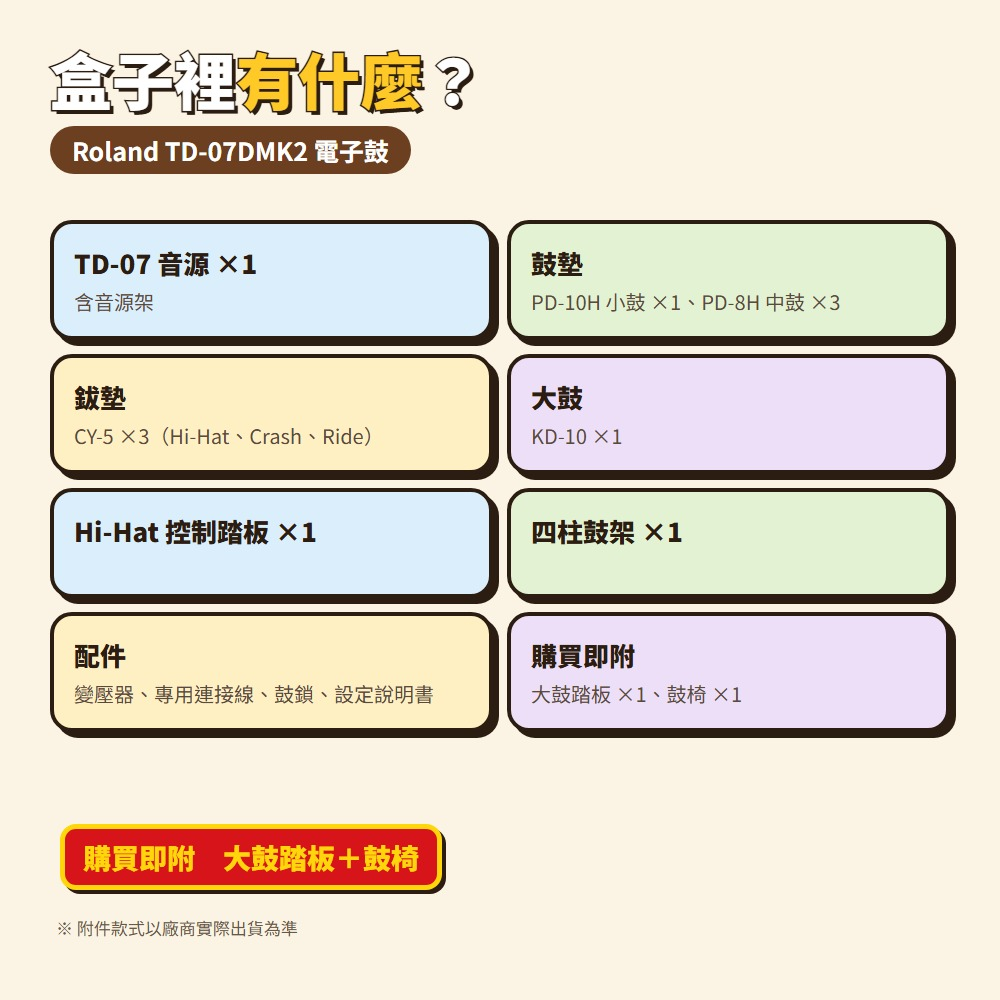
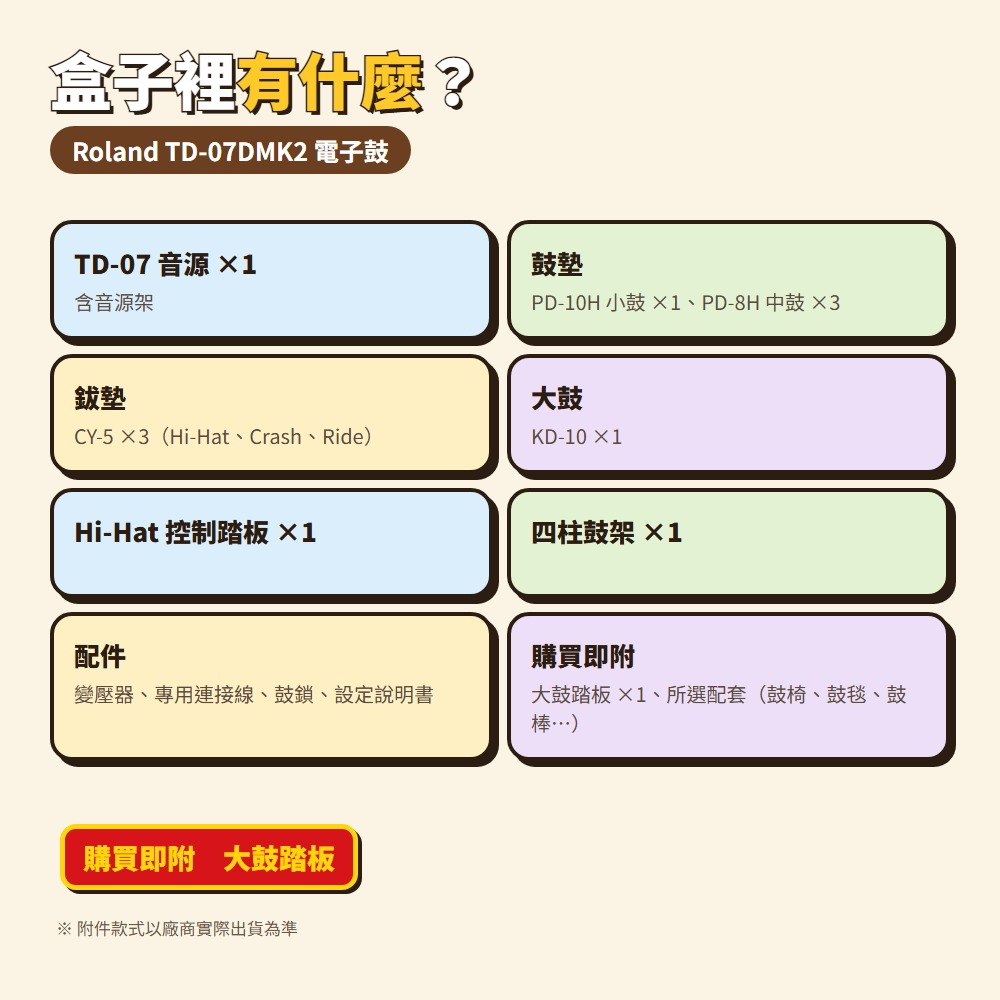
07DMK2：加配套組合頁（入門／進階三選一／豪華六件），購買即附大鼓踏板

Changed region(s): [[0.031, 0.682, 0.961, 0.775], [0.341, 0.806, 0.465, 0.899]]

diff --git a/styles/index.html b/styles/index.html
@@ -4,4 +4,4 @@
 nav a{display:inline-block;margin:3px 6px 3px 0;padding:4px 10px;background:#fff;border-radius:14px;text-decoration:none;color:#0071e3;font-size:14px}
 details{background:#fff;border-radius:10px;margin:8px 0;padding:8px 12px}summary{cursor:pointer;font-weight:600}
 .g{display:grid;grid-template-columns:repeat(auto-fill,minmax(150px,1fr));gap:8px;margin-top:10px}.g img{width:100%;display:block;border-radius:6px}</style></head>
-<body><div class="w"><h1>主推型號 全風格上架圖</h1><p>蘋果風、科技風（已有的沿用）＋店貓風、枯木風（官網日系）、枯木＋店貓。點分類展開，點圖看原尺寸。</p><nav><a href="#07DMK2">07DMK2</a> <a href="#07DMK">07DMK</a> <a href="#07KV2">07KV2</a> <a href="#DTX6K5-M">DTX6K5-M</a> <a href="#DM-8">DM-8</a> <a href="#DM-310H">DM-310H</a> <a href="#DM-210">DM-210</a> <a href="#DM-110">DM-110</a> <a href="#P-525">P-525</a> <a href="#FP-40">FP-40</a> <a href="#P-225">P-225</a> <a href="#YDP-105R">YDP-105R</a></nav><h2 id="07DMK2">Roland TD-07DMK2</h2><details><summary>蘋果風（6 張）</summary><div class="g"><a href="../drums/07DMK2/apple/01_封面.jpg" target="_blank"><img loading="lazy" src="../drums/07DMK2/apple/01_封面.jpg"></a><a href="../drums/07DMK2/apple/02_主圖.jpg" target="_blank"><img loading="lazy" src="../drums/07DMK2/apple/02_主圖.jpg"></a><a href="../drums/07DMK2/apple/03_角度1.jpg" target="_blank"><img loading="lazy" src="../drums/07DMK2/apple/03_角度1.jpg"></a><a href="../drums/07DMK2/apple/04_角度2.jpg" target="_blank"><img loading="lazy" src="../drums/07DMK2/apple/04_角度2.jpg"></a><a href="../drums/07DMK2/apple/05_角度3.jpg" target="_blank"><img loading="lazy" src="../drums/07DMK2/apple/05_角度3.jpg"></a><a href="../drums/07DMK2/apple/06_角度4.jpg" target="_blank"><img loading="lazy" src="../drums/07DMK2/apple/06_角度4.jpg"></a></div></details><details><summary>科技風（3 張）</summary><div class="g"><a href="../drums/07DMK2/tech/01_封面.jpg" target="_blank"><img loading="lazy" src="../drums/07DMK2/tech/01_封面.jpg"></a><a href="../drums/07DMK2/tech/02_規格.jpg" target="_blank"><img loading="lazy" src="../drums/07DMK2/tech/02_規格.jpg"></a><a href="../drums/07DMK2/tech/03_音源機.jpg" target="_blank"><img loading="lazy" src="../drums/07DMK2/tech/03_音源機.jpg"></a></div></details><details><summary>店貓風（13 張）</summary><div class="g"><a href="../drums/07DMK2/shopcat/TD07DMK2_cat_01_main.jpg" target="_blank"><img loading="lazy" src="../drums/07DMK2/shopcat/TD07DMK2_cat_01_main.jpg"></a><a href="../drums/07DMK2/shopcat/TD07DMK2_cat_02_feature1.jpg" target="_blank"><img loading="lazy" src="../drums/07DMK2/shopcat/TD07DMK2_cat_02_feature1.jpg"></a><a href="../drums/07DMK2/shopcat/TD07DMK2_cat_03_feature2.jpg" target="_blank"><img loading="lazy" src="../drums/07DMK2/shopcat/TD07DMK2_cat_03_feature2.jpg"></a><a href="../drums/07DMK2/shopcat/TD07DMK2_cat_04_feature3.jpg" target="_blank"><img loading="lazy" src="../drums/07DMK2/shopcat/TD07DMK2_cat_04_feature3.jpg"></a><a href="../drums/07DMK2/shopcat/TD07DMK2_cat_05_feature4.jpg" target="_blank"><img loading="lazy" src="../drums/07DMK2/shopcat/TD07DMK2_cat_05_feature4.jpg"></a><a href="../drums/07DMK2/shopcat/TD07DMK2_cat_06_config.jpg" target="_blank"><img loading="lazy" src="../drums/07DMK2/shopcat/TD07DMK2_cat_06_config.jpg"></a><a href="../drums/07DMK2/shopcat/TD07DMK2_cat_07_contents.jpg" target="_blank"><img loading="lazy" src="../drums/07DMK2/shopcat/TD07DMK2_cat_07_contents.jpg"></a><a href="../drums/07DMK2/shopcat/TD07DMK2_cat_08_size.jpg" target="_blank"><img loading="lazy" src="../drums/07DMK2/shopcat/TD07DMK2_cat_08_size.jpg"></a><a href="../drums/07DMK2/shopcat/TD07DMK2_cat_09_spec.jpg" target="_blank"><img loading="lazy" src="../drums/07DMK2/shopcat/TD07DMK2_cat_09_spec.jpg"></a><a href="../drums/07DMK2/shopcat/TD07DMK2_cat_10_buy.jpg" target="_blank"><img loading="lazy" src="../drums/07DMK2/shopcat/TD07DMK2_cat_10_buy.jpg"></a><a href="../drums/07DMK2/shopcat/TD07DMK2_cat_11_return.jpg" target="_blank"><img loading="lazy" src="../drums/07DMK2/shopcat/TD07DMK2_cat_11_return.jpg"></a><a href="../drums/07DMK2/shopcat/TD07DMK2_cat_12_ship.jpg" target="_blank"><img loading="lazy" src="../drums/07DMK2/shopcat/TD07DMK2_cat_12_ship.jpg"></a><a href="../drums/07DMK2/shopcat/TD07DMK2_cat_13_remote.jpg" target="_blank"><img loading="lazy" src="../drums/07DMK2/shopcat/TD07DMK2_cat_13_remote.jpg"></a></div></details><details><summary>枯木風（官網日系）（13 張）</summary><div class="g"><a href="../drums/07DMK2/wabi/TD07DMK2_web_01_main.jpg" target="_blank"><img loading="lazy" src="../drums/07DMK2/wabi/TD07DMK2_web_01_main.jpg"></a><a href="../drums/07DMK2/wabi/TD07DMK2_web_02_feature1.jpg" target="_blank"><img loading="lazy" src="../drums/07DMK2/wabi/TD07DMK2_web_02_feature1.jpg"></a><a href="../drums/07DMK2/wabi/TD07DMK2_web_03_feature2.jpg" target="_blank"><img loading="lazy" src="../drums/07DMK2/wabi/TD07DMK2_web_03_feature2.jpg"></a><a href="../drums/07DMK2/wabi/TD07DMK2_web_04_feature3.jpg" target="_blank"><img loading="lazy" src="../drums/07DMK2/wabi/TD07DMK2_web_04_feature3.jpg"></a><a href="../drums/07DMK2/wabi/TD07DMK2_web_05_feature4.jpg" target="_blank"><img loading="lazy" src="../drums/07DMK2/wabi/TD07DMK2_web_05_feature4.jpg"></a><a href="../drums/07DMK2/wabi/TD07DMK2_web_06_config.jpg" target="_blank"><img loading="lazy" src="../drums/07DMK2/wabi/TD07DMK2_web_06_config.jpg"></a><a href="../drums/07DMK2/wabi/TD07DMK2_web_07_contents.jpg" target="_blank"><img loading="lazy" src="../drums/07DMK2/wabi/TD07DMK2_web_07_contents.jpg"></a><a href="../drums/07DMK2/wabi/TD07DMK2_web_08_size.jpg" target="_blank"><img loading="lazy" src="../drums/07DMK2/wabi/TD07DMK2_web_08_size.jpg"></a><a href="../drums/07DMK2/wabi/TD07DMK2_web_09_spec.jpg" target="_blank"><img loading="lazy" src="../drums/07DMK2/wabi/TD07DMK2_web_09_spec.jpg"></a><a href="../drums/07DMK2/wabi/TD07DMK2_web_10_buy.jpg" target="_blank"><img loading="lazy" src="../drums/07DMK2/wabi/TD07DMK2_web_10_buy.jpg"></a><a href="../drums/07DMK2/wabi/TD07DMK2_web_11_return.jpg" target="_blank"><img loading="lazy" src="../drums/07DMK2/wabi/TD07DMK2_web_11_return.jpg"></a><a href="../drums/07DMK2/wabi/TD07DMK2_web_12_ship.jpg" target="_blank"><img loading="lazy" src="../drums/07DMK2/wabi/TD07DMK2_web_12_ship.jpg"></a><a href="../drums/07DMK2/wabi/TD07DMK2_web_13_remote.jpg" target="_blank"><img loading="lazy" src="../drums/07DMK2/wabi/TD07DMK2_web_13_remote.jpg"></a></div></details><details><summary>枯木＋店貓（13 張）</summary><div class="g"><a href="../drums/07DMK2/wabicat/TD07DMK2_wcat_01_main.jpg" target="_blank"><img loading="lazy" src="../drums/07DMK2/wabicat/TD07DMK2_wcat_01_main.jpg"></a><a href="../drums/07DMK2/wabicat/TD07DMK2_wcat_02_feature1.jpg" target="_blank"><img loading="lazy" src="../drums/07DMK2/wabicat/TD07DMK2_wcat_02_feature1.jpg"></a><a href="../drums/07DMK2/wabicat/TD07DMK2_wcat_03_feature2.jpg" target="_blank"><img loading="lazy" src="../drums/07DMK2/wabicat/TD07DMK2_wcat_03_feature2.jpg"></a><a href="../drums/07DMK2/wabicat/TD07DMK2_wcat_04_feature3.jpg" target="_blank"><img loading="lazy" src="../drums/07DMK2/wabicat/TD07DMK2_wcat_04_feature3.jpg"></a><a href="../drums/07DMK2/wabicat/TD07DMK2_wcat_05_feature4.jpg" target="_blank"><img loading="lazy" src="../drums/07DMK2/wabicat/TD07DMK2_wcat_05_feature4.jpg"></a><a href="../drums/07DMK2/wabicat/TD07DMK2_wcat_06_config.jpg" target="_blank"><img loading="lazy" src="../drums/07DMK2/wabicat/TD07DMK2_wcat_06_config.jpg"></a><a href="../drums/07DMK2/wabicat/TD07DMK2_wcat_07_contents.jpg" target="_blank"><img loading="lazy" src="../drums/07DMK2/wabicat/TD07DMK2_wcat_07_contents.jpg"></a><a href="../drums/07DMK2/wabicat/TD07DMK2_wcat_08_size.jpg" target="_blank"><img loading="lazy" src="../drums/07DMK2/wabicat/TD07DMK2_wcat_08_size.jpg"></a><a href="../drums/07DMK2/wabicat/TD07DMK2_wcat_09_spec.jpg" target="_blank"><img loading="lazy" src="../drums/07DMK2/wabicat/TD07DMK2_wcat_09_spec.jpg"></a><a href="../drums/07DMK2/wabicat/TD07DMK2_wcat_10_buy.jpg" target="_blank"><img loading="lazy" src="../drums/07DMK2/wabicat/TD07DMK2_wcat_10_buy.jpg"></a><a href="../drums/07DMK2/wabicat/TD07DMK2_wcat_11_return.jpg" target="_blank"><img loading="lazy" src="../drums/07DMK2/wabicat/TD07DMK2_wcat_11_return.jpg"></a><a href="../drums/07DMK2/wabicat/TD07DMK2_wcat_12_ship.jpg" target="_blank"><img loading="lazy" src="../drums/07DMK2/wabicat/TD07DMK2_wcat_12_ship.jpg"></a><a href="../drums/07DMK2/wabicat/TD07DMK2_wcat_13_remote.jpg" target="_blank"><img loading="lazy" src="../drums/07DMK2/wabicat/TD07DMK2_wcat_13_remote.jpg"></a></div></details><h2 id="07DMK">Roland TD-07DMK</h2><details><summary>蘋果風（11 張）</summary><div class="g"><a href="../drums/07DMK/apple/01_封面.jpg" target="_blank"><img loading="lazy" src="../drums/07DMK/apple/01_封面.jpg"></a><a href="../drums/07DMK/apple/02_主圖.jpg" target="_blank"><img loading="lazy" src="../drums/07DMK/apple/02_主圖.jpg"></a><a href="../drums/07DMK/apple/03_角度1.jpg" target="_blank"><img loading="lazy" src="../drums/07DMK/apple/03_角度1.jpg"></a><a href="../drums/07DMK/apple/04_角度2.jpg" target="_blank"><img loading="lazy" src="../drums/07DMK/apple/04_角度2.jpg"></a><a href="../drums/07DMK/apple/05_角度3.jpg" target="_blank"><img loading="lazy" src="../drums/07DMK/apple/05_角度3.jpg"></a><a href="../drums/07DMK/apple/06_角度4.jpg" target="_blank"><img loading="lazy" src="../drums/07DMK/apple/06_角度4.jpg"></a><a href="../drums/07DMK/apple/10_入門配套組.jpg" target="_blank"><img loading="lazy" src="../drums/07DMK/apple/10_入門配套組.jpg"></a><a href="../drums/07DMK/apple/11_進階配套組A.jpg" target="_blank"><img loading="lazy" src="../drums/07DMK/apple/11_進階配套組A.jpg"></a><a href="../drums/07DMK/apple/12_進階配套組B.jpg" target="_blank"><img loading="lazy" src="../drums/07DMK/apple/12_進階配套組B.jpg"></a><a href="../drums/07DMK/apple/13_進階配套組C.jpg" target="_blank"><img loading="lazy" src="../drums/07DMK/apple/13_進階配套組C.jpg"></a><a href="../drums/07DMK/apple/14_豪華配套6件組.jpg" target="_blank"><img loading="lazy" src="../drums/07DMK/apple/14_豪華配套6件組.jpg"></a></div></details><details><summary>科技風（3 張）</summary><div class="g"><a href="../drums/07DMK/tech/01_封面.jpg" target="_blank"><img loading="lazy" src="../drums/07DMK/tech/01_封面.jpg"></a><a href="../drums/07DMK/tech/02_規格.jpg" target="_blank"><img loading="lazy" src="../drums/07DMK/tech/02_規格.jpg"></a><a href="../drums/07DMK/tech/03_音源機.jpg" target="_blank"><img loading="lazy" src="../drums/07DMK/tech/03_音源機.jpg"></a></div></details><h2 id="DM-8">NUX DM-8</h2><details><summary>蘋果風（10 張）</summary><div class="g"><a href="../drums/DM-8/apple/01_封面.jpg" target="_blank"><img loading="lazy" src="../drums/DM-8/apple/01_封面.jpg"></a><a href="../drums/DM-8/apple/02_主圖.jpg" target="_blank"><img loading="lazy" src="../drums/DM-8/apple/02_主圖.jpg"></a><a href="../drums/DM-8/apple/03_角度1.jpg" target="_blank"><img loading="lazy" src="../drums/DM-8/apple/03_角度1.jpg"></a><a href="../drums/DM-8/apple/04_角度2.jpg" target="_blank"><img loading="lazy" src="../drums/DM-8/apple/04_角度2.jpg"></a><a href="../drums/DM-8/apple/05_角度3.jpg" target="_blank"><img loading="lazy" src="../drums/DM-8/apple/05_角度3.jpg"></a><a href="../drums/DM-8/apple/10_入門配套組.jpg" target="_blank"><img loading="lazy" src="../drums/DM-8/apple/10_入門配套組.jpg"></a><a href="../drums/DM-8/apple/11_進階配套組A.jpg" target="_blank"><img loading="lazy" src="../drums/DM-8/apple/11_進階配套組A.jpg"></a><a href="../drums/DM-8/apple/12_進階配套組B.jpg" target="_blank"><img loading="lazy" src="../drums/DM-8/apple/12_進階配套組B.jpg"></a><a href="../drums/DM-8/apple/13_進階配套組C.jpg" target="_blank"><img loading="lazy" src="../drums/DM-8/apple/13_進階配套組C.jpg"></a><a href="../drums/DM-8/apple/14_豪華配套6件組.jpg" target="_blank"><img loading="lazy" src="../drums/DM-8/apple/14_豪華配套6件組.jpg"></a></div></details><details><summary>科技風（3 張）</summary><div class="g"><a href="../drums/DM-8/tech/01_封面.jpg" target="_blank"><img loading="lazy" src="../drums/DM-8/tech/01_封面.jpg"></a><a href="../drums/DM-8/tech/02_規格.jpg" target="_blank"><img loading="lazy" src="../drums/DM-8/tech/02_規格.jpg"></a><a href="../drums/DM-8/tech/03_音源機.jpg" target="_blank"><img loading="lazy" src="../drums/DM-8/tech/03_音源機.jpg"></a></div></details><h2 id="DM-310H">NUX DM-310H</h2><details><summary>蘋果風（11 張）</summary><div class="g"><a href="../drums/DM-310H/apple/01_封面.jpg" target="_blank"><img loading="lazy" src="../drums/DM-310H/apple/01_封面.jpg"></a><a href="../drums/DM-310H/apple/02_主圖.jpg" target="_blank"><img loading="lazy" src="../drums/DM-310H/apple/02_主圖.jpg"></a><a href="../drums/DM-310H/apple/03_角度1.jpg" target="_blank"><img loading="lazy" src="../drums/DM-310H/apple/03_角度1.jpg"></a><a href="../drums/DM-310H/apple/04_角度2.jpg" target="_blank"><img loading="lazy" src="../drums/DM-310H/apple/04_角度2.jpg"></a><a href="../drums/DM-310H/apple/05_角度3.jpg" target="_blank"><img loading="lazy" src="../drums/DM-310H/apple/05_角度3.jpg"></a><a href="../drums/DM-310H/apple/06_角度4.jpg" target="_blank"><img loading="lazy" src="../drums/DM-310H/apple/06_角度4.jpg"></a><a href="../drums/DM-310H/apple/10_入門配套組.jpg" target="_blank"><img loading="lazy" src="../drums/DM-310H/apple/10_入門配套組.jpg"></a><a href="../drums/DM-310H/apple/11_進階配套組A.jpg" target="_blank"><img loading="lazy" src="../drums/DM-310H/apple/11_進階配套組A.jpg"></a><a href="../drums/DM-310H/apple/12_進階配套組B.jpg" target="_blank"><img loading="lazy" src="../drums/DM-310H/apple/12_進階配套組B.jpg"></a><a href="../drums/DM-310H/apple/13_進階配套組C.jpg" target="_blank"><img loading="lazy" src="../drums/DM-310H/apple/13_進階配套組C.jpg"></a><a href="../drums/DM-310H/apple/14_豪華配套6件組.jpg" target="_blank"><img loading="lazy" src="../drums/DM-310H/apple/14_豪華配套6件組.jpg"></a></div></details><details><summary>科技風（3 張）</summary><div class="g"><a href="../drums/DM-310H/tech/01_封面.jpg" target="_blank"><img loading="lazy" src="../drums/DM-310H/tech/01_封面.jpg"></a><a href="../drums/DM-310H/tech/02_規格.jpg" target="_blank"><img loading="lazy" src="../drums/DM-310H/tech/02_規格.jpg"></a><a href="../drums/DM-310H/tech/03_音源機.jpg" target="_blank"><img loading="lazy" src="../drums/DM-310H/tech/03_音源機.jpg"></a></div></details><h2 id="DM-210">NUX DM-210</h2><details><summary>蘋果風（9 張）</summary><div class="g"><a href="../drums/DM-210/apple/01_封面.jpg" target="_blank"><img loading="lazy" src="../drums/DM-210/apple/01_封面.jpg"></a><a href="../drums/DM-210/apple/02_主圖.jpg" target="_blank"><img loading="lazy" src="../drums/DM-210/apple/02_主圖.jpg"></a><a href="../drums/DM-210/apple/03_角度1.jpg" target="_blank"><img loading="lazy" src="../drums/DM-210/apple/03_角度1.jpg"></a><a href="../drums/DM-210/apple/04_角度2.jpg" target="_blank"><img loading="lazy" src="../drums/DM-210/apple/04_角度2.jpg"></a><a href="../drums/DM-210/apple/10_入門配套組.jpg" target="_blank"><img loading="lazy" src="../drums/DM-210/apple/10_入門配套組.jpg"></a><a href="../drums/DM-210/apple/11_進階配套組A.jpg" target="_blank"><img loading="lazy" src="../drums/DM-210/apple/11_進階配套組A.jpg"></a><a href="../drums/DM-210/apple/12_進階配套組B.jpg" target="_blank"><img loading="lazy" src="../drums/DM-210/apple/12_進階配套組B.jpg"></a><a href="../drums/DM-210/apple/13_進階配套組C.jpg" target="_blank"><img loading="lazy" src="../drums/DM-210/apple/13_進階配套組C.jpg"></a><a href="../drums/DM-210/apple/14_豪華配套6件組.jpg" target="_blank"><img loading="lazy" src="../drums/DM-210/apple/14_豪華配套6件組.jpg"></a></div></details><details><summary>科技風（3 張）</summary><div class="g"><a href="../drums/DM-210/tech/01_封面.jpg" target="_blank"><img loading="lazy" src="../drums/DM-210/tech/01_封面.jpg"></a><a href="../drums/DM-210/tech/02_規格.jpg" target="_blank"><img loading="lazy" src="../drums/DM-210/tech/02_規格.jpg"></a><a href="../drums/DM-210/tech/03_音源機.jpg" target="_blank"><img loading="lazy" src="../drums/DM-210/tech/03_音源機.jpg"></a></div></details><h2 id="DM-110">NUX DM-110</h2><details><summary>蘋果風（11 張）</summary><div class="g"><a href="../drums/DM-110/apple/01_封面.jpg" target="_blank"><img loading="lazy" src="../drums/DM-110/apple/01_封面.jpg"></a><a href="../drums/DM-110/apple/02_主圖.jpg" target="_blank"><img loading="lazy" src="../drums/DM-110/apple/02_主圖.jpg"></a><a href="../drums/DM-110/apple/03_角度1.jpg" target="_blank"><img loading="lazy" src="../drums/DM-110/apple/03_角度1.jpg"></a><a href="../drums/DM-110/apple/04_角度2.jpg" target="_blank"><img loading="lazy" src="../drums/DM-110/apple/04_角度2.jpg"></a><a href="../drums/DM-110/apple/05_角度3.jpg" target="_blank"><img loading="lazy" src="../drums/DM-110/apple/05_角度3.jpg"></a><a href="../drums/DM-110/apple/06_角度4.jpg" target="_blank"><img loading="lazy" src="../drums/DM-110/apple/06_角度4.jpg"></a><a href="../drums/DM-110/apple/10_入門配套組.jpg" target="_blank"><img loading="lazy" src="../drums/DM-110/apple/10_入門配套組.jpg"></a><a href="../drums/DM-110/apple/11_進階配套組A.jpg" target="_blank"><img loading="lazy" src="../drums/DM-110/apple/11_進階配套組A.jpg"></a><a href="../drums/DM-110/apple/12_進階配套組B.jpg" target="_blank"><img loading="lazy" src="../drums/DM-110/apple/12_進階配套組B.jpg"></a><a href="../drums/DM-110/apple/13_進階配套組C.jpg" target="_blank"><img loading="lazy" src="../drums/DM-110/apple/13_進階配套組C.jpg"></a><a href="../drums/DM-110/apple/14_豪華配套6件組.jpg" target="_blank"><img loading="lazy" src="../drums/DM-110/apple/14_豪華配套6件組.jpg"></a></div></details><details><summary>科技風（3 張）</summary><div class="g"><a href="../drums/DM-110/tech/01_封面.jpg" target="_blank"><img loading="lazy" src="../drums/DM-110/tech/01_封面.jpg"></a><a href="../drums/DM-110/tech/02_規格.jpg" target="_blank"><img loading="lazy" src="../drums/DM-110/tech/02_規格.jpg"></a><a href="../drums/DM-110/tech/03_音源機.jpg" target="_blank"><img loading="lazy" src="../drums/DM-110/tech/03_音源機.jpg"></a></div></details><h2 id="P-525">Yamaha P-525</h2><details><summary>蘋果風（20 張）</summary><div class="g"><a href="../piano/P-525/apple/P525_1_main_BK.jpg" target="_blank"><img loading="lazy" src="../piano/P-525/apple/P525_1_main_BK.jpg"></a><a href="../piano/P-525/apple/P525_1_main_WH.jpg" target="_blank"><img loading="lazy" src="../piano/P-525/apple/P525_1_main_WH.jpg"></a><a href="../piano/P-525/apple/P525_2_cover.jpg" target="_blank"><img loading="lazy" src="../piano/P-525/apple/P525_2_cover.jpg"></a><a href="../piano/P-525/apple/P525_3_stand.jpg" target="_blank"><img loading="lazy" src="../piano/P-525/apple/P525_3_stand.jpg"></a><a href="../piano/P-525/apple/P525_4_features.jpg" target="_blank"><img loading="lazy" src="../piano/P-525/apple/P525_4_features.jpg"></a><a href="../piano/P-525/apple/P525_d01_brand.jpg" target="_blank"><img loading="lazy" src="../piano/P-525/apple/P525_d01_brand.jpg"></a><a href="../piano/P-525/apple/P525_d02_keys.jpg" target="_blank"><img loading="lazy" src="../piano/P-525/apple/P525_d02_keys.jpg"></a><a href="../piano/P-525/apple/P525_d03_sound.jpg" target="_blank"><img loading="lazy" src="../piano/P-525/apple/P525_d03_sound.jpg"></a><a href="../piano/P-525/apple/P525_d04_speakers.jpg" target="_blank"><img loading="lazy" src="../piano/P-525/apple/P525_d04_speakers.jpg"></a><a href="../piano/P-525/apple/P525_d05_headphones.jpg" target="_blank"><img loading="lazy" src="../piano/P-525/apple/P525_d05_headphones.jpg"></a><a href="../piano/P-525/apple/P525_d06_app.jpg" target="_blank"><img loading="lazy" src="../piano/P-525/apple/P525_d06_app.jpg"></a><a href="../piano/P-525/apple/P525_d07_record.jpg" target="_blank"><img loading="lazy" src="../piano/P-525/apple/P525_d07_record.jpg"></a><a href="../piano/P-525/apple/P525_d08_practice.jpg" target="_blank"><img loading="lazy" src="../piano/P-525/apple/P525_d08_practice.jpg"></a><a href="../piano/P-525/apple/P525_d09_stand_pedals.jpg" target="_blank"><img loading="lazy" src="../piano/P-525/apple/P525_d09_stand_pedals.jpg"></a><a href="../piano/P-525/apple/P525_d10_contents.jpg" target="_blank"><img loading="lazy" src="../piano/P-525/apple/P525_d10_contents.jpg"></a><a href="../piano/P-525/apple/P525_d11_size.jpg" target="_blank"><img loading="lazy" src="../piano/P-525/apple/P525_d11_size.jpg"></a><a href="../piano/P-525/apple/P525_d12_spec.jpg" target="_blank"><img loading="lazy" src="../piano/P-525/apple/P525_d12_spec.jpg"></a><a href="../piano/P-525/apple/P525_d90_notice_buy.jpg" target="_blank"><img loading="lazy" src="../piano/P-525/apple/P525_d90_notice_buy.jpg"></a><a href="../piano/P-525/apple/P525_d91_notice_return.jpg" target="_blank"><img loading="lazy" src="../piano/P-525/apple/P525_d91_notice_return.jpg"></a><a href="../piano/P-525/apple/P525_d92_notice_remote.jpg" target="_blank"><img loading="lazy" src="../piano/P-525/apple/P525_d92_notice_remote.jpg"></a></div></details><h2 id="FP-40">Roland FP-40</h2><details><summary>蘋果風（11 張）</summary><div class="g"><a href="../piano/FP-40/apple/01_全套封面.jpg" target="_blank"><img loading="lazy" src="../piano/FP-40/apple/01_全套封面.jpg"></a><a href="../piano/FP-40/apple/02_全套主圖_黑.jpg" target="_blank"><img loading="lazy" src="../piano/FP-40/apple/02_全套主圖_黑.jpg"></a><a href="../piano/FP-40/apple/03_全套主圖_白.jpg" target="_blank"><img loading="lazy" src="../piano/FP-40/apple/03_全套主圖_白.jpg"></a><a href="../piano/FP-40/apple/04_全套黑白雙色.jpg" target="_blank"><img loading="lazy" src="../piano/FP-40/apple/04_全套黑白雙色.jpg"></a><a href="../piano/FP-40/apple/05_單主機封面.jpg" target="_blank"><img loading="lazy" src="../piano/FP-40/apple/05_單主機封面.jpg"></a><a href="../piano/FP-40/apple/06_單主機主圖_黑.jpg" target="_blank"><img loading="lazy" src="../piano/FP-40/apple/06_單主機主圖_黑.jpg"></a><a href="../piano/FP-40/apple/07_單主機主圖_白.jpg" target="_blank"><img loading="lazy" src="../piano/FP-40/apple/07_單主機主圖_白.jpg"></a><a href="../piano/FP-40/apple/08_單主機角度1.jpg" target="_blank"><img loading="lazy" src="../piano/FP-40/apple/08_單主機角度1.jpg"></a><a href="../piano/FP-40/apple/09_單主機角度2.jpg" target="_blank"><img loading="lazy" src="../piano/FP-40/apple/09_單主機角度2.jpg"></a><a href="../piano/FP-40/apple/10_黑白兩色.jpg" target="_blank"><img loading="lazy" src="../piano/FP-40/apple/10_黑白兩色.jpg"></a><a href="../piano/FP-40/apple/11_面板特寫.jpg" target="_blank"><img loading="lazy" src="../piano/FP-40/apple/11_面板特寫.jpg"></a></div></details><details><summary>科技風（3 張）</summary><div class="g"><a href="../piano/FP-40/tech/01_封面.jpg" target="_blank"><img loading="lazy" src="../piano/FP-40/tech/01_封面.jpg"></a><a href="../piano/FP-40/tech/02_規格.jpg" target="_blank"><img loading="lazy" src="../piano/FP-40/tech/02_規格.jpg"></a><a href="../piano/FP-40/tech/03_音源.jpg" target="_blank"><img loading="lazy" src="../piano/FP-40/tech/03_音源.jpg"></a></div></details></div></body></html>
+<body><div class="w"><h1>主推型號 全風格上架圖</h1><p>蘋果風、科技風（已有的沿用）＋店貓風、枯木風（官網日系）、枯木＋店貓。點分類展開，點圖看原尺寸。</p><nav><a href="#07DMK2">07DMK2</a> <a href="#07DMK">07DMK</a> <a href="#07KV2">07KV2</a> <a href="#DTX6K5-M">DTX6K5-M</a> <a href="#DM-8">DM-8</a> <a href="#DM-310H">DM-310H</a> <a href="#DM-210">DM-210</a> <a href="#DM-110">DM-110</a> <a href="#P-525">P-525</a> <a href="#FP-40">FP-40</a> <a href="#P-225">P-225</a> <a href="#YDP-105R">YDP-105R</a></nav><h2 id="07DMK2">Roland TD-07DMK2</h2><details><summary>蘋果風（6 張）</summary><div class="g"><a href="../drums/07DMK2/apple/01_封面.jpg" target="_blank"><img loading="lazy" src="../drums/07DMK2/apple/01_封面.jpg"></a><a href="../drums/07DMK2/apple/02_主圖.jpg" target="_blank"><img loading="lazy" src="../drums/07DMK2/apple/02_主圖.jpg"></a><a href="../drums/07DMK2/apple/03_角度1.jpg" target="_blank"><img loading="lazy" src="../drums/07DMK2/apple/03_角度1.jpg"></a><a href="../drums/07DMK2/apple/04_角度2.jpg" target="_blank"><img loading="lazy" src="../drums/07DMK2/apple/04_角度2.jpg"></a><a href="../drums/07DMK2/apple/05_角度3.jpg" target="_blank"><img loading="lazy" src="../drums/07DMK2/apple/05_角度3.jpg"></a><a href="../drums/07DMK2/apple/06_角度4.jpg" target="_blank"><img loading="lazy" src="../drums/07DMK2/apple/06_角度4.jpg"></a></div></details><details><summary>科技風（3 張）</summary><div class="g"><a href="../drums/07DMK2/tech/01_封面.jpg" target="_blank"><img loading="lazy" src="../drums/07DMK2/tech/01_封面.jpg"></a><a href="../drums/07DMK2/tech/02_規格.jpg" target="_blank"><img loading="lazy" src="../drums/07DMK2/tech/02_規格.jpg"></a><a href="../drums/07DMK2/tech/03_音源機.jpg" target="_blank"><img loading="lazy" src="../drums/07DMK2/tech/03_音源機.jpg"></a></div></details><details><summary>店貓風（14 張）</summary><div class="g"><a href="../drums/07DMK2/shopcat/TD07DMK2_cat_01_main.jpg" target="_blank"><img loading="lazy" src="../drums/07DMK2/shopcat/TD07DMK2_cat_01_main.jpg"></a><a href="../drums/07DMK2/shopcat/TD07DMK2_cat_02_feature1.jpg" target="_blank"><img loading="lazy" src="../drums/07DMK2/shopcat/TD07DMK2_cat_02_feature1.jpg"></a><a href="../drums/07DMK2/shopcat/TD07DMK2_cat_03_feature2.jpg" target="_blank"><img loading="lazy" src="../drums/07DMK2/shopcat/TD07DMK2_cat_03_feature2.jpg"></a><a href="../drums/07DMK2/shopcat/TD07DMK2_cat_04_feature3.jpg" target="_blank"><img loading="lazy" src="../drums/07DMK2/shopcat/TD07DMK2_cat_04_feature3.jpg"></a><a href="../drums/07DMK2/shopcat/TD07DMK2_cat_05_feature4.jpg" target="_blank"><img loading="lazy" src="../drums/07DMK2/shopcat/TD07DMK2_cat_05_feature4.jpg"></a><a href="../drums/07DMK2/shopcat/TD07DMK2_cat_06_config.jpg" target="_blank"><img loading="lazy" src="../drums/07DMK2/shopcat/TD07DMK2_cat_06_config.jpg"></a><a href="../drums/07DMK2/shopcat/TD07DMK2_cat_07_contents.jpg" target="_blank"><img loading="lazy" src="../drums/07DMK2/shopcat/TD07DMK2_cat_07_contents.jpg"></a><a href="../drums/07DMK2/shopcat/TD07DMK2_cat_08_bundles.jpg" target="_blank"><img loading="lazy" src="../drums/07DMK2/shopcat/TD07DMK2_cat_08_bundles.jpg"></a><a href="../drums/07DMK2/shopcat/TD07DMK2_cat_09_size.jpg" target="_blank"><img loading="lazy" src="../drums/07DMK2/shopcat/TD07DMK2_cat_09_size.jpg"></a><a href="../drums/07DMK2/shopcat/TD07DMK2_cat_10_spec.jpg" target="_blank"><img loading="lazy" src="../drums/07DMK2/shopcat/TD07DMK2_cat_10_spec.jpg"></a><a href="../drums/07DMK2/shopcat/TD07DMK2_cat_11_buy.jpg" target="_blank"><img loading="lazy" src="../drums/07DMK2/shopcat/TD07DMK2_cat_11_buy.jpg"></a><a href="../drums/07DMK2/shopcat/TD07DMK2_cat_12_return.jpg" target="_blank"><img loading="lazy" src="../drums/07DMK2/shopcat/TD07DMK2_cat_12_return.jpg"></a><a href="../drums/07DMK2/shopcat/TD07DMK2_cat_13_ship.jpg" target="_blank"><img loading="lazy" src="../drums/07DMK2/shopcat/TD07DMK2_cat_13_ship.jpg"></a><a href="../drums/07DMK2/shopcat/TD07DMK2_cat_14_remote.jpg" target="_blank"><img loading="lazy" src="../drums/07DMK2/shopcat/TD07DMK2_cat_14_remote.jpg"></a></div></details><details><summary>枯木風（官網日系）（14 張）</summary><div class="g"><a href="../drums/07DMK2/wabi/TD07DMK2_web_01_main.jpg" target="_blank"><img loading="lazy" src="../drums/07DMK2/wabi/TD07DMK2_web_01_main.jpg"></a><a href="../drums/07DMK2/wabi/TD07DMK2_web_02_feature1.jpg" target="_blank"><img loading="lazy" src="../drums/07DMK2/wabi/TD07DMK2_web_02_feature1.jpg"></a><a href="../drums/07DMK2/wabi/TD07DMK2_web_03_feature2.jpg" target="_blank"><img loading="lazy" src="../drums/07DMK2/wabi/TD07DMK2_web_03_feature2.jpg"></a><a href="../drums/07DMK2/wabi/TD07DMK2_web_04_feature3.jpg" target="_blank"><img loading="lazy" src="../drums/07DMK2/wabi/TD07DMK2_web_04_feature3.jpg"></a><a href="../drums/07DMK2/wabi/TD07DMK2_web_05_feature4.jpg" target="_blank"><img loading="lazy" src="../drums/07DMK2/wabi/TD07DMK2_web_05_feature4.jpg"></a><a href="../drums/07DMK2/wabi/TD07DMK2_web_06_config.jpg" target="_blank"><img loading="lazy" src="../drums/07DMK2/wabi/TD07DMK2_web_06_config.jpg"></a><a href="../drums/07DMK2/wabi/TD07DMK2_web_07_contents.jpg" target="_blank"><img loading="lazy" src="../drums/07DMK2/wabi/TD07DMK2_web_07_contents.jpg"></a><a href="../drums/07DMK2/wabi/TD07DMK2_web_08_bundles.jpg" target="_blank"><img loading="lazy" src="../drums/07DMK2/wabi/TD07DMK2_web_08_bundles.jpg"></a><a href="../drums/07DMK2/wabi/TD07DMK2_web_09_size.jpg" target="_blank"><img loading="lazy" src="../drums/07DMK2/wabi/TD07DMK2_web_09_size.jpg"></a><a href="../drums/07DMK2/wabi/TD07DMK2_web_10_spec.jpg" target="_blank"><img loading="lazy" src="../drums/07DMK2/wabi/TD07DMK2_web_10_spec.jpg"></a><a href="../drums/07DMK2/wabi/TD07DMK2_web_11_buy.jpg" target="_blank"><img loading="lazy" src="../drums/07DMK2/wabi/TD07DMK2_web_11_buy.jpg"></a><a href="../drums/07DMK2/wabi/TD07DMK2_web_12_return.jpg" target="_blank"><img loading="lazy" src="../drums/07DMK2/wabi/TD07DMK2_web_12_return.jpg"></a><a href="../drums/07DMK2/wabi/TD07DMK2_web_13_ship.jpg" target="_blank"><img loading="lazy" src="../drums/07DMK2/wabi/TD07DMK2_web_13_ship.jpg"></a><a href="../drums/07DMK2/wabi/TD07DMK2_web_14_remote.jpg" target="_blank"><img loading="lazy" src="../drums/07DMK2/wabi/TD07DMK2_web_14_remote.jpg"></a></div></details><details><summary>枯木＋店貓（14 張）</summary><div class="g"><a href="../drums/07DMK2/wabicat/TD07DMK2_wcat_01_main.jpg" target="_blank"><img loading="lazy" src="../drums/07DMK2/wabicat/TD07DMK2_wcat_01_main.jpg"></a><a href="../drums/07DMK2/wabicat/TD07DMK2_wcat_02_feature1.jpg" target="_blank"><img loading="lazy" src="../drums/07DMK2/wabicat/TD07DMK2_wcat_02_feature1.jpg"></a><a href="../drums/07DMK2/wabicat/TD07DMK2_wcat_03_feature2.jpg" target="_blank"><img loading="lazy" src="../drums/07DMK2/wabicat/TD07DMK2_wcat_03_feature2.jpg"></a><a href="../drums/07DMK2/wabicat/TD07DMK2_wcat_04_feature3.jpg" target="_blank"><img loading="lazy" src="../drums/07DMK2/wabicat/TD07DMK2_wcat_04_feature3.jpg"></a><a href="../drums/07DMK2/wabicat/TD07DMK2_wcat_05_feature4.jpg" target="_blank"><img loading="lazy" src="../drums/07DMK2/wabicat/TD07DMK2_wcat_05_feature4.jpg"></a><a href="../drums/07DMK2/wabicat/TD07DMK2_wcat_06_config.jpg" target="_blank"><img loading="lazy" src="../drums/07DMK2/wabicat/TD07DMK2_wcat_06_config.jpg"></a><a href="../drums/07DMK2/wabicat/TD07DMK2_wcat_07_contents.jpg" target="_blank"><img loading="lazy" src="../drums/07DMK2/wabicat/TD07DMK2_wcat_07_contents.jpg"></a><a href="../drums/07DMK2/wabicat/TD07DMK2_wcat_08_bundles.jpg" target="_blank"><img loading="lazy" src="../drums/07DMK2/wabicat/TD07DMK2_wcat_08_bundles.jpg"></a><a href="../drums/07DMK2/wabicat/TD07DMK2_wcat_09_size.jpg" target="_blank"><img loading="lazy" src="../drums/07DMK2/wabicat/TD07DMK2_wcat_09_size.jpg"></a><a href="../drums/07DMK2/wabicat/TD07DMK2_wcat_10_spec.jpg" target="_blank"><img loading="lazy" src="../drums/07DMK2/wabicat/TD07DMK2_wcat_10_spec.jpg"></a><a href="../drums/07DMK2/wabicat/TD07DMK2_wcat_11_buy.jpg" target="_blank"><img loading="lazy" src="../drums/07DMK2/wabicat/TD07DMK2_wcat_11_buy.jpg"></a><a href="../drums/07DMK2/wabicat/TD07DMK2_wcat_12_return.jpg" target="_blank"><img loading="lazy" src="../drums/07DMK2/wabicat/TD07DMK2_wcat_12_return.jpg"></a><a href="../drums/07DMK2/wabicat/TD07DMK2_wcat_13_ship.jpg" target="_blank"><img loading="lazy" src="../drums/07DMK2/wabicat/TD07DMK2_wcat_13_ship.jpg"></a><a href="../drums/07DMK2/wabicat/TD07DMK2_wcat_14_remote.jpg" target="_blank"><img loading="lazy" src="../drums/07DMK2/wabicat/TD07DMK2_wcat_14_remote.jpg"></a></div></details><h2 id="07DMK">Roland TD-07DMK</h2><details><summary>蘋果風（11 張）</summary><div class="g"><a href="../drums/07DMK/apple/01_封面.jpg" target="_blank"><img loading="lazy" src="../drums/07DMK/apple/01_封面.jpg"></a><a href="../drums/07DMK/apple/02_主圖.jpg" target="_blank"><img loading="lazy" src="../drums/07DMK/apple/02_主圖.jpg"></a><a href="../drums/07DMK/apple/03_角度1.jpg" target="_blank"><img loading="lazy" src="../drums/07DMK/apple/03_角度1.jpg"></a><a href="../drums/07DMK/apple/04_角度2.jpg" target="_blank"><img loading="lazy" src="../drums/07DMK/apple/04_角度2.jpg"></a><a href="../drums/07DMK/apple/05_角度3.jpg" target="_blank"><img loading="lazy" src="../drums/07DMK/apple/05_角度3.jpg"></a><a href="../drums/07DMK/apple/06_角度4.jpg" target="_blank"><img loading="lazy" src="../drums/07DMK/apple/06_角度4.jpg"></a><a href="../drums/07DMK/apple/10_入門配套組.jpg" target="_blank"><img loading="lazy" src="../drums/07DMK/apple/10_入門配套組.jpg"></a><a href="../drums/07DMK/apple/11_進階配套組A.jpg" target="_blank"><img loading="lazy" src="../drums/07DMK/apple/11_進階配套組A.jpg"></a><a href="../drums/07DMK/apple/12_進階配套組B.jpg" target="_blank"><img loading="lazy" src="../drums/07DMK/apple/12_進階配套組B.jpg"></a><a href="../drums/07DMK/apple/13_進階配套組C.jpg" target="_blank"><img loading="lazy" src="../drums/07DMK/apple/13_進階配套組C.jpg"></a><a href="../drums/07DMK/apple/14_豪華配套6件組.jpg" target="_blank"><img loading="lazy" src="../drums/07DMK/apple/14_豪華配套6件組.jpg"></a></div></details><details><summary>科技風（3 張）</summary><div class="g"><a href="../drums/07DMK/tech/01_封面.jpg" target="_blank"><img loading="lazy" src="../drums/07DMK/tech/01_封面.jpg"></a><a href="../drums/07DMK/tech/02_規格.jpg" target="_blank"><img loading="lazy" src="../drums/07DMK/tech/02_規格.jpg"></a><a href="../drums/07DMK/tech/03_音源機.jpg" target="_blank"><img loading="lazy" src="../drums/07DMK/tech/03_音源機.jpg"></a></div></details><h2 id="DM-8">NUX DM-8</h2><details><summary>蘋果風（10 張）</summary><div class="g"><a href="../drums/DM-8/apple/01_封面.jpg" target="_blank"><img loading="lazy" src="../drums/DM-8/apple/01_封面.jpg"></a><a href="../drums/DM-8/apple/02_主圖.jpg" target="_blank"><img loading="lazy" src="../drums/DM-8/apple/02_主圖.jpg"></a><a href="../drums/DM-8/apple/03_角度1.jpg" target="_blank"><img loading="lazy" src="../drums/DM-8/apple/03_角度1.jpg"></a><a href="../drums/DM-8/apple/04_角度2.jpg" target="_blank"><img loading="lazy" src="../drums/DM-8/apple/04_角度2.jpg"></a><a href="../drums/DM-8/apple/05_角度3.jpg" target="_blank"><img loading="lazy" src="../drums/DM-8/apple/05_角度3.jpg"></a><a href="../drums/DM-8/apple/10_入門配套組.jpg" target="_blank"><img loading="lazy" src="../drums/DM-8/apple/10_入門配套組.jpg"></a><a href="../drums/DM-8/apple/11_進階配套組A.jpg" target="_blank"><img loading="lazy" src="../drums/DM-8/apple/11_進階配套組A.jpg"></a><a href="../drums/DM-8/apple/12_進階配套組B.jpg" target="_blank"><img loading="lazy" src="../drums/DM-8/apple/12_進階配套組B.jpg"></a><a href="../drums/DM-8/apple/13_進階配套組C.jpg" target="_blank"><img loading="lazy" src="../drums/DM-8/apple/13_進階配套組C.jpg"></a><a href="../drums/DM-8/apple/14_豪華配套6件組.jpg" target="_blank"><img loading="lazy" src="../drums/DM-8/apple/14_豪華配套6件組.jpg"></a></div></details><details><summary>科技風（3 張）</summary><div class="g"><a href="../drums/DM-8/tech/01_封面.jpg" target="_blank"><img loading="lazy" src="../drums/DM-8/tech/01_封面.jpg"></a><a href="../drums/DM-8/tech/02_規格.jpg" target="_blank"><img loading="lazy" src="../drums/DM-8/tech/02_規格.jpg"></a><a href="../drums/DM-8/tech/03_音源機.jpg" target="_blank"><img loading="lazy" src="../drums/DM-8/tech/03_音源機.jpg"></a></div></details><h2 id="DM-310H">NUX DM-310H</h2><details><summary>蘋果風（11 張）</summary><div class="g"><a href="../drums/DM-310H/apple/01_封面.jpg" target="_blank"><img loading="lazy" src="../drums/DM-310H/apple/01_封面.jpg"></a><a href="../drums/DM-310H/apple/02_主圖.jpg" target="_blank"><img loading="lazy" src="../drums/DM-310H/apple/02_主圖.jpg"></a><a href="../drums/DM-310H/apple/03_角度1.jpg" target="_blank"><img loading="lazy" src="../drums/DM-310H/apple/03_角度1.jpg"></a><a href="../drums/DM-310H/apple/04_角度2.jpg" target="_blank"><img loading="lazy" src="../drums/DM-310H/apple/04_角度2.jpg"></a><a href="../drums/DM-310H/apple/05_角度3.jpg" target="_blank"><img loading="lazy" src="../drums/DM-310H/apple/05_角度3.jpg"></a><a href="../drums/DM-310H/apple/06_角度4.jpg" target="_blank"><img loading="lazy" src="../drums/DM-310H/apple/06_角度4.jpg"></a><a href="../drums/DM-310H/apple/10_入門配套組.jpg" target="_blank"><img loading="lazy" src="../drums/DM-310H/apple/10_入門配套組.jpg"></a><a href="../drums/DM-310H/apple/11_進階配套組A.jpg" target="_blank"><img loading="lazy" src="../drums/DM-310H/apple/11_進階配套組A.jpg"></a><a href="../drums/DM-310H/apple/12_進階配套組B.jpg" target="_blank"><img loading="lazy" src="../drums/DM-310H/apple/12_進階配套組B.jpg"></a><a href="../drums/DM-310H/apple/13_進階配套組C.jpg" target="_blank"><img loading="lazy" src="../drums/DM-310H/apple/13_進階配套組C.jpg"></a><a href="../drums/DM-310H/apple/14_豪華配套6件組.jpg" target="_blank"><img loading="lazy" src="../drums/DM-310H/apple/14_豪華配套6件組.jpg"></a></div></details><details><summary>科技風（3 張）</summary><div class="g"><a href="../drums/DM-310H/tech/01_封面.jpg" target="_blank"><img loading="lazy" src="../drums/DM-310H/tech/01_封面.jpg"></a><a href="../drums/DM-310H/tech/02_規格.jpg" target="_blank"><img loading="lazy" src="../drums/DM-310H/tech/02_規格.jpg"></a><a href="../drums/DM-310H/tech/03_音源機.jpg" target="_blank"><img loading="lazy" src="../drums/DM-310H/tech/03_音源機.jpg"></a></div></details><h2 id="DM-210">NUX DM-210</h2><details><summary>蘋果風（9 張）</summary><div class="g"><a href="../drums/DM-210/apple/01_封面.jpg" target="_blank"><img loading="lazy" src="../drums/DM-210/apple/01_封面.jpg"></a><a href="../drums/DM-210/apple/02_主圖.jpg" target="_blank"><img loading="lazy" src="../drums/DM-210/apple/02_主圖.jpg"></a><a href="../drums/DM-210/apple/03_角度1.jpg" target="_blank"><img loading="lazy" src="../drums/DM-210/apple/03_角度1.jpg"></a><a href="../drums/DM-210/apple/04_角度2.jpg" target="_blank"><img loading="lazy" src="../drums/DM-210/apple/04_角度2.jpg"></a><a href="../drums/DM-210/apple/10_入門配套組.jpg" target="_blank"><img loading="lazy" src="../drums/DM-210/apple/10_入門配套組.jpg"></a><a href="../drums/DM-210/apple/11_進階配套組A.jpg" target="_blank"><img loading="lazy" src="../drums/DM-210/apple/11_進階配套組A.jpg"></a><a href="../drums/DM-210/apple/12_進階配套組B.jpg" target="_blank"><img loading="lazy" src="../drums/DM-210/apple/12_進階配套組B.jpg"></a><a href="../drums/DM-210/apple/13_進階配套組C.jpg" target="_blank"><img loading="lazy" src="../drums/DM-210/apple/13_進階配套組C.jpg"></a><a href="../drums/DM-210/apple/14_豪華配套6件組.jpg" target="_blank"><img loading="lazy" src="../drums/DM-210/apple/14_豪華配套6件組.jpg"></a></div></details><details><summary>科技風（3 張）</summary><div class="g"><a href="../drums/DM-210/tech/01_封面.jpg" target="_blank"><img loading="lazy" src="../drums/DM-210/tech/01_封面.jpg"></a><a href="../drums/DM-210/tech/02_規格.jpg" target="_blank"><img loading="lazy" src="../drums/DM-210/tech/02_規格.jpg"></a><a href="../drums/DM-210/tech/03_音源機.jpg" target="_blank"><img loading="lazy" src="../drums/DM-210/tech/03_音源機.jpg"></a></div></details><h2 id="DM-110">NUX DM-110</h2><details><summary>蘋果風（11 張）</summary><div class="g"><a href="../drums/DM-110/apple/01_封面.jpg" target="_blank"><img loading="lazy" src="../drums/DM-110/apple/01_封面.jpg"></a><a href="../drums/DM-110/apple/02_主圖.jpg" target="_blank"><img loading="lazy" src="../drums/DM-110/apple/02_主圖.jpg"></a><a href="../drums/DM-110/apple/03_角度1.jpg" target="_blank"><img loading="lazy" src="../drums/DM-110/apple/03_角度1.jpg"></a><a href="../drums/DM-110/apple/04_角度2.jpg" target="_blank"><img loading="lazy" src="../drums/DM-110/apple/04_角度2.jpg"></a><a href="../drums/DM-110/apple/05_角度3.jpg" target="_blank"><img loading="lazy" src="../drums/DM-110/apple/05_角度3.jpg"></a><a href="../drums/DM-110/apple/06_角度4.jpg" target="_blank"><img loading="lazy" src="../drums/DM-110/apple/06_角度4.jpg"></a><a href="../drums/DM-110/apple/10_入門配套組.jpg" target="_blank"><img loading="lazy" src="../drums/DM-110/apple/10_入門配套組.jpg"></a><a href="../drums/DM-110/apple/11_進階配套組A.jpg" target="_blank"><img loading="lazy" src="../drums/DM-110/apple/11_進階配套組A.jpg"></a><a href="../drums/DM-110/apple/12_進階配套組B.jpg" target="_blank"><img loading="lazy" src="../drums/DM-110/apple/12_進階配套組B.jpg"></a><a href="../drums/DM-110/apple/13_進階配套組C.jpg" target="_blank"><img loading="lazy" src="../drums/DM-110/apple/13_進階配套組C.jpg"></a><a href="../drums/DM-110/apple/14_豪華配套6件組.jpg" target="_blank"><img loading="lazy" src="../drums/DM-110/apple/14_豪華配套6件組.jpg"></a></div></details><details><summary>科技風（3 張）</summary><div class="g"><a href="../drums/DM-110/tech/01_封面.jpg" target="_blank"><img loading="lazy" src="../drums/DM-110/tech/01_封面.jpg"></a><a href="../drums/DM-110/tech/02_規格.jpg" target="_blank"><img loading="lazy" src="../drums/DM-110/tech/02_規格.jpg"></a><a href="../drums/DM-110/tech/03_音源機.jpg" target="_blank"><img loading="lazy" src="../drums/DM-110/tech/03_音源機.jpg"></a></div></details><h2 id="P-525">Yamaha P-525</h2><details><summary>蘋果風（20 張）</summary><div class="g"><a href="../piano/P-525/apple/P525_1_main_BK.jpg" target="_blank"><img loading="lazy" src="../piano/P-525/apple/P525_1_main_BK.jpg"></a><a href="../piano/P-525/apple/P525_1_main_WH.jpg" target="_blank"><img loading="lazy" src="../piano/P-525/apple/P525_1_main_WH.jpg"></a><a href="../piano/P-525/apple/P525_2_cover.jpg" target="_blank"><img loading="lazy" src="../piano/P-525/apple/P525_2_cover.jpg"></a><a href="../piano/P-525/apple/P525_3_stand.jpg" target="_blank"><img loading="lazy" src="../piano/P-525/apple/P525_3_stand.jpg"></a><a href="../piano/P-525/apple/P525_4_features.jpg" target="_blank"><img loading="lazy" src="../piano/P-525/apple/P525_4_features.jpg"></a><a href="../piano/P-525/apple/P525_d01_brand.jpg" target="_blank"><img loading="lazy" src="../piano/P-525/apple/P525_d01_brand.jpg"></a><a href="../piano/P-525/apple/P525_d02_keys.jpg" target="_blank"><img loading="lazy" src="../piano/P-525/apple/P525_d02_keys.jpg"></a><a href="../piano/P-525/apple/P525_d03_sound.jpg" target="_blank"><img loading="lazy" src="../piano/P-525/apple/P525_d03_sound.jpg"></a><a href="../piano/P-525/apple/P525_d04_speakers.jpg" target="_blank"><img loading="lazy" src="../piano/P-525/apple/P525_d04_speakers.jpg"></a><a href="../piano/P-525/apple/P525_d05_headphones.jpg" target="_blank"><img loading="lazy" src="../piano/P-525/apple/P525_d05_headphones.jpg"></a><a href="../piano/P-525/apple/P525_d06_app.jpg" target="_blank"><img loading="lazy" src="../piano/P-525/apple/P525_d06_app.jpg"></a><a href="../piano/P-525/apple/P525_d07_record.jpg" target="_blank"><img loading="lazy" src="../piano/P-525/apple/P525_d07_record.jpg"></a><a href="../piano/P-525/apple/P525_d08_practice.jpg" target="_blank"><img loading="lazy" src="../piano/P-525/apple/P525_d08_practice.jpg"></a><a href="../piano/P-525/apple/P525_d09_stand_pedals.jpg" target="_blank"><img loading="lazy" src="../piano/P-525/apple/P525_d09_stand_pedals.jpg"></a><a href="../piano/P-525/apple/P525_d10_contents.jpg" target="_blank"><img loading="lazy" src="../piano/P-525/apple/P525_d10_contents.jpg"></a><a href="../piano/P-525/apple/P525_d11_size.jpg" target="_blank"><img loading="lazy" src="../piano/P-525/apple/P525_d11_size.jpg"></a><a href="../piano/P-525/apple/P525_d12_spec.jpg" target="_blank"><img loading="lazy" src="../piano/P-525/apple/P525_d12_spec.jpg"></a><a href="../piano/P-525/apple/P525_d90_notice_buy.jpg" target="_blank"><img loading="lazy" src="../piano/P-525/apple/P525_d90_notice_buy.jpg"></a><a href="../piano/P-525/apple/P525_d91_notice_return.jpg" target="_blank"><img loading="lazy" src="../piano/P-525/apple/P525_d91_notice_return.jpg"></a><a href="../piano/P-525/apple/P525_d92_notice_remote.jpg" target="_blank"><img loading="lazy" src="../piano/P-525/apple/P525_d92_notice_remote.jpg"></a></div></details><h2 id="FP-40">Roland FP-40</h2><details><summary>蘋果風（11 張）</summary><div class="g"><a href="../piano/FP-40/apple/01_全套封面.jpg" target="_blank"><img loading="lazy" src="../piano/FP-40/apple/01_全套封面.jpg"></a><a href="../piano/FP-40/apple/02_全套主圖_黑.jpg" target="_blank"><img loading="lazy" src="../piano/FP-40/apple/02_全套主圖_黑.jpg"></a><a href="../piano/FP-40/apple/03_全套主圖_白.jpg" target="_blank"><img loading="lazy" src="../piano/FP-40/apple/03_全套主圖_白.jpg"></a><a href="../piano/FP-40/apple/04_全套黑白雙色.jpg" target="_blank"><img loading="lazy" src="../piano/FP-40/apple/04_全套黑白雙色.jpg"></a><a href="../piano/FP-40/apple/05_單主機封面.jpg" target="_blank"><img loading="lazy" src="../piano/FP-40/apple/05_單主機封面.jpg"></a><a href="../piano/FP-40/apple/06_單主機主圖_黑.jpg" target="_blank"><img loading="lazy" src="../piano/FP-40/apple/06_單主機主圖_黑.jpg"></a><a href="../piano/FP-40/apple/07_單主機主圖_白.jpg" target="_blank"><img loading="lazy" src="../piano/FP-40/apple/07_單主機主圖_白.jpg"></a><a href="../piano/FP-40/apple/08_單主機角度1.jpg" target="_blank"><img loading="lazy" src="../piano/FP-40/apple/08_單主機角度1.jpg"></a><a href="../piano/FP-40/apple/09_單主機角度2.jpg" target="_blank"><img loading="lazy" src="../piano/FP-40/apple/09_單主機角度2.jpg"></a><a href="../piano/FP-40/apple/10_黑白兩色.jpg" target="_blank"><img loading="lazy" src="../piano/FP-40/apple/10_黑白兩色.jpg"></a><a href="../piano/FP-40/apple/11_面板特寫.jpg" target="_blank"><img loading="lazy" src="../piano/FP-40/apple/11_面板特寫.jpg"></a></div></details><details><summary>科技風（3 張）</summary><div class="g"><a href="../piano/FP-40/tech/01_封面.jpg" target="_blank"><img loading="lazy" src="../piano/FP-40/tech/01_封面.jpg"></a><a href="../piano/FP-40/tech/02_規格.jpg" target="_blank"><img loading="lazy" src="../piano/FP-40/tech/02_規格.jpg"></a><a href="../piano/FP-40/tech/03_音源.jpg" target="_blank"><img loading="lazy" src="../piano/FP-40/tech/03_音源.jpg"></a></div></details></div></body></html>
